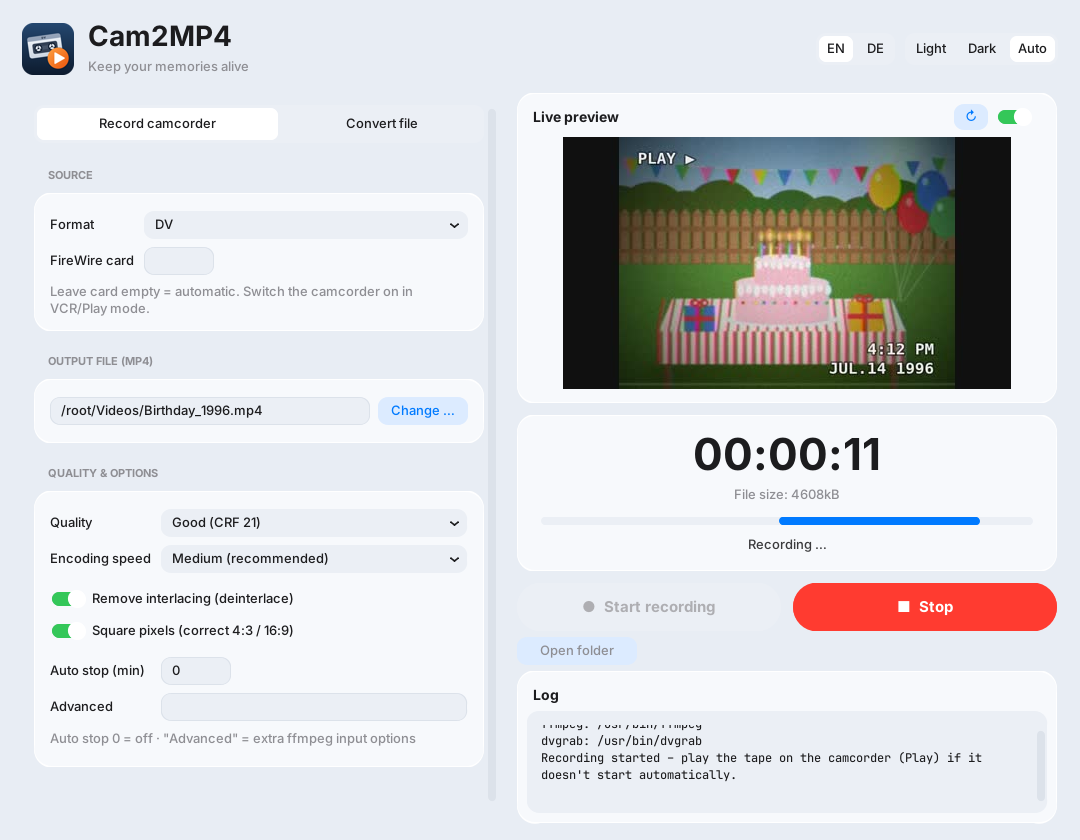
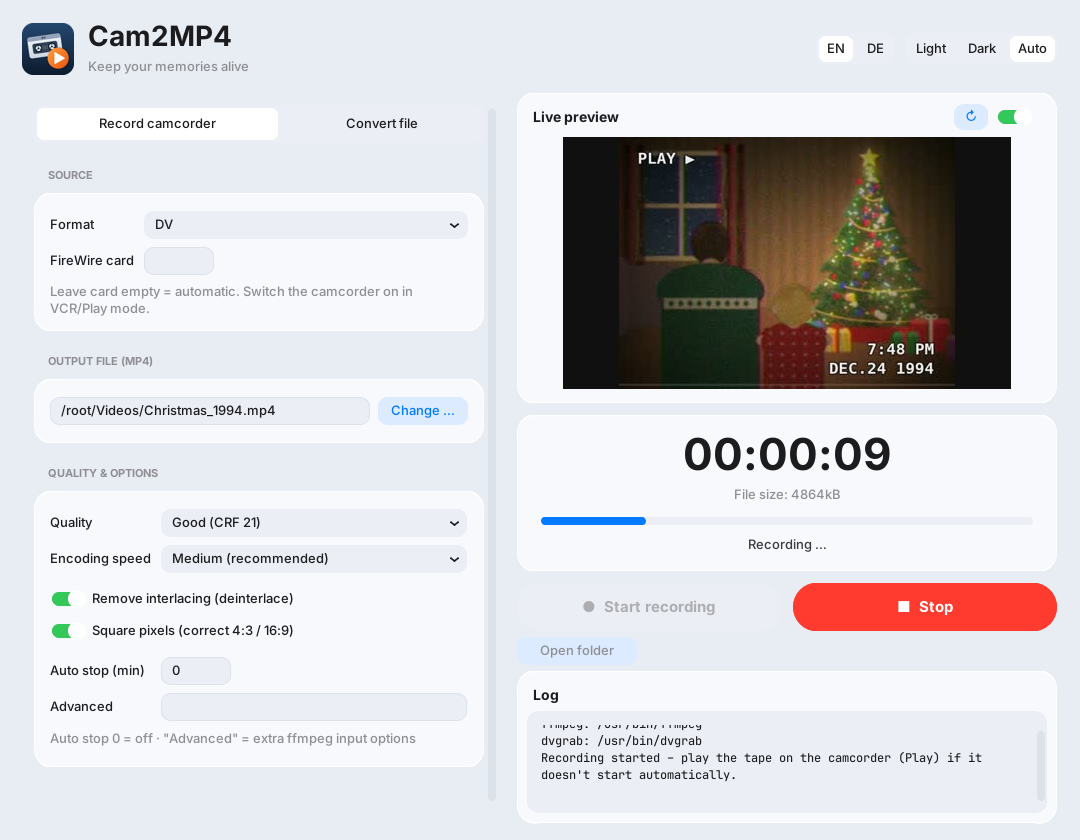
Use a 90s Christmas home video in the screenshots
The recording screenshots now show a Christmas Eve 1994 camcorder tape
(family by the tree, snow outside, VHS look) instead of the birthday
scene.

diff --git a/README.md b/README.md
@@ -5,10 +5,10 @@ Cam2MP4 digitizes camcorder tapes over FireWire (DV/HDV) and converts video file
 ## Screenshots
 
 <p align="center">
-  <img src="docs/screenshots/recording-light.png" alt="Recording an old birthday tape from a camcorder in light mode, with live preview" width="49%">
+  <img src="docs/screenshots/recording-light.png" alt="Recording a 1994 Christmas tape from a camcorder in light mode, with live preview" width="49%">
   <img src="docs/screenshots/recording-dark.png" alt="The same recording in dark mode" width="49%">
 </p>
-<p align="center"><em>Recording an old camcorder tape: live preview, elapsed time and file size while the MP4 is written.</em></p>
+<p align="center"><em>Recording an old Christmas tape: live preview, elapsed time and file size while the MP4 is written.</em></p>
 
 ## First start
 
